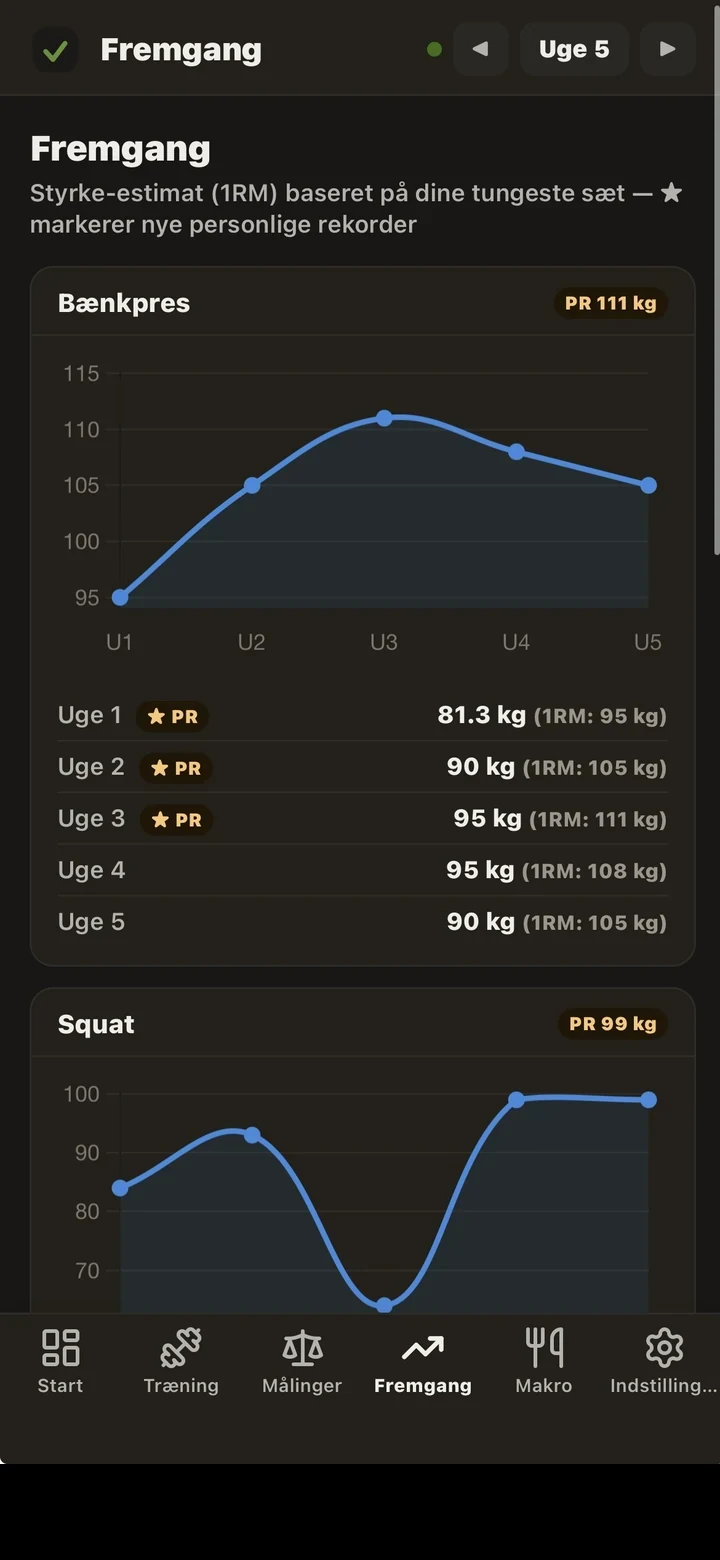
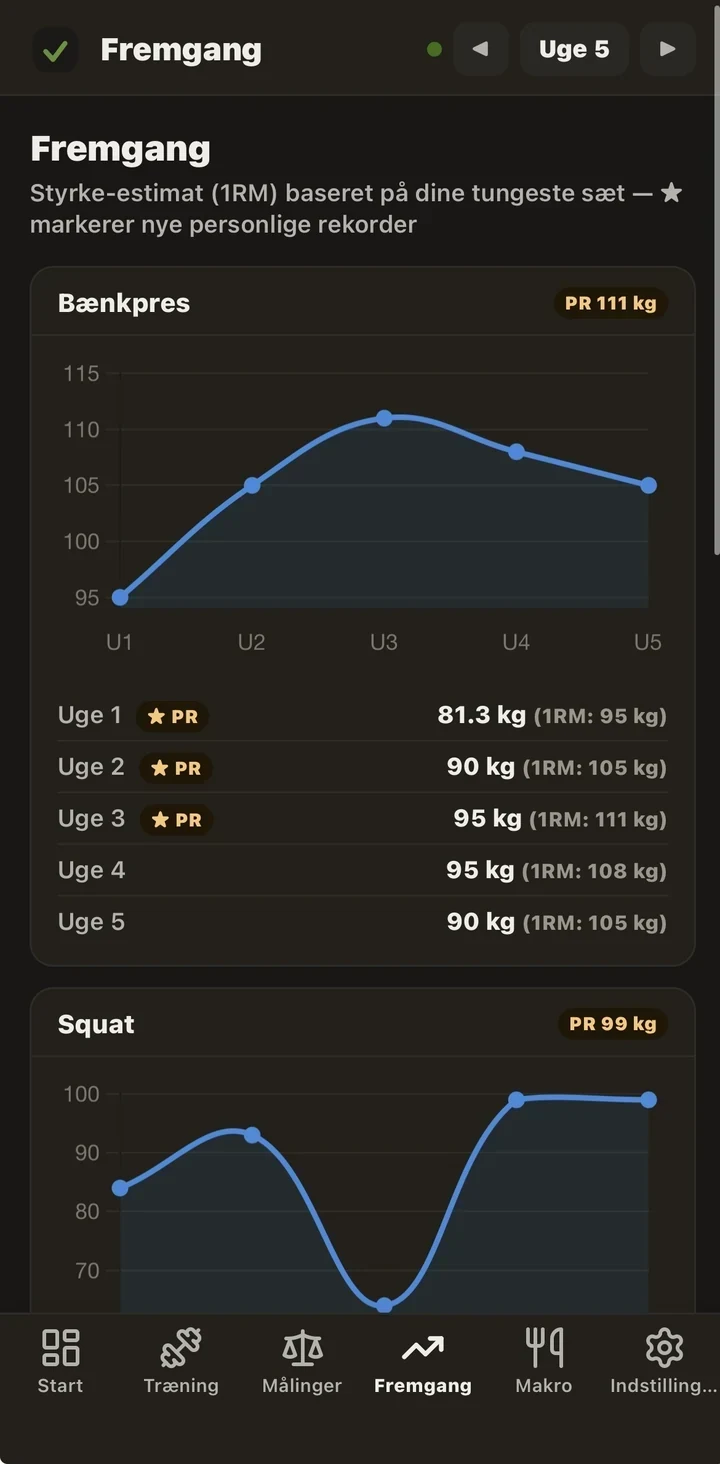
Add files via upload

diff --git a/index.html b/index.html
@@ -243,16 +243,16 @@ body{font-family:'Inter',-apple-system,'SF Pro Text','SF Pro Display',system-ui,
 .audience-desc{font-size:14px;color:var(--text);line-height:1.6;}
 
 /* Phone mockup (visual placeholder for app preview) */
-.phone-mock{background:#0c0c0e;border-radius:32px;padding:8px;aspect-ratio:9/19.5;width:100%;max-width:230px;margin:0 auto;box-shadow:0 24px 56px rgba(0,0,0,0.22),0 0 0 1px rgba(255,255,255,0.05) inset;position:relative;}
-.phone-mock img{display:block;width:100%;height:100%;object-fit:cover;object-position:top;border-radius:24px;}
+.phone-mock{background:#0c0c0e;border-radius:32px;padding:8px;width:100%;max-width:230px;margin:0 auto;box-shadow:0 24px 56px rgba(0,0,0,0.22),0 0 0 1px rgba(255,255,255,0.05) inset;position:relative;}
+.phone-mock img{display:block;width:100%;height:auto;border-radius:24px;}
 @media(prefers-color-scheme:dark){.phone-mock{box-shadow:0 24px 56px rgba(0,0,0,0.5),0 0 0 1px rgba(255,255,255,0.08) inset;}}
 
 /* Screenshot showcase under product-card */
-.screenshot-showcase{margin-top:32px;display:grid;grid-template-columns:repeat(3,1fr);gap:20px;}
+.screenshot-showcase{margin-top:32px;display:grid;grid-template-columns:repeat(3,1fr);gap:20px;align-items:end;}
 @media(max-width:640px){.screenshot-showcase{grid-template-columns:repeat(3,1fr);gap:12px;}}
 .shot-card{display:flex;flex-direction:column;align-items:center;text-align:center;gap:12px;}
-.shot-frame{background:#0c0c0e;border-radius:24px;padding:6px;aspect-ratio:9/19.5;width:100%;max-width:180px;box-shadow:0 14px 32px rgba(0,0,0,0.18),0 0 0 1px rgba(255,255,255,0.05) inset;}
-.shot-frame img{display:block;width:100%;height:100%;object-fit:cover;object-position:top;border-radius:18px;}
+.shot-frame{background:#0c0c0e;border-radius:24px;padding:6px;width:100%;max-width:180px;box-shadow:0 14px 32px rgba(0,0,0,0.18),0 0 0 1px rgba(255,255,255,0.05) inset;}
+.shot-frame img{display:block;width:100%;height:auto;border-radius:18px;}
 .shot-caption{font-size:13px;color:var(--text);font-weight:600;letter-spacing:-0.01em;line-height:1.35;}
 .shot-sub{font-size:12px;color:var(--muted);line-height:1.45;margin-top:-6px;}
 @media(prefers-color-scheme:dark){.shot-frame{box-shadow:0 14px 32px rgba(0,0,0,0.45),0 0 0 1px rgba(255,255,255,0.08) inset;}}
@@ -777,7 +777,7 @@ body{font-family:'Inter',-apple-system,'SF Pro Text','SF Pro Display',system-ui,
         </div>
       </div>
       <div class="phone-mock">
-        <img src="/assets/screenshots/start.webp" data-src-da="/assets/screenshots/start.webp" data-src-en="/assets/screenshots/start-en.webp" width="720" height="1560" fetchpriority="high" decoding="async" alt="Training log dashboard — today's focus, this week's training, macros and sleep on one screen">
+        <img src="/assets/screenshots/start.webp" data-src-da="/assets/screenshots/start.webp" data-src-en="/assets/screenshots/start-en.webp" width="720" height="1469" fetchpriority="high" decoding="async" alt="Training log dashboard — today's focus, this week's training, macros and sleep on one screen">
       </div>
     </div>
 
@@ -785,7 +785,7 @@ body{font-family:'Inter',-apple-system,'SF Pro Text','SF Pro Display',system-ui,
     <div class="screenshot-showcase">
       <div class="shot-card">
         <div class="shot-frame">
-          <img src="/assets/screenshots/fremgang-pr.webp" data-src-da="/assets/screenshots/fremgang-pr.webp" data-src-en="/assets/screenshots/fremgang-pr-en.webp" width="720" height="1560" loading="lazy" decoding="async" alt="">
+          <img src="/assets/screenshots/fremgang-pr.webp" data-src-da="/assets/screenshots/fremgang-pr.webp" data-src-en="/assets/screenshots/fremgang-pr-en.webp" width="720" height="1464" loading="lazy" decoding="async" alt="">
         </div>
         <div class="shot-caption">
           <span data-lang class="on" data-lang-id="da">Styrke-fremgang</span>
@@ -798,7 +798,7 @@ body{font-family:'Inter',-apple-system,'SF Pro Text','SF Pro Display',system-ui,
       </div>
       <div class="shot-card">
         <div class="shot-frame">
-          <img src="/assets/screenshots/maalinger-fedt.webp" data-src-da="/assets/screenshots/maalinger-fedt.webp" data-src-en="/assets/screenshots/maalinger-fedt-en.webp" width="720" height="1560" loading="lazy" decoding="async" alt="">
+          <img src="/assets/screenshots/maalinger-fedt.webp" data-src-da="/assets/screenshots/maalinger-fedt.webp" data-src-en="/assets/screenshots/maalinger-fedt-en.webp" width="720" height="1485" loading="lazy" decoding="async" alt="">
         </div>
         <div class="shot-caption">
           <span data-lang class="on" data-lang-id="da">Krops-fremgang</span>
@@ -811,7 +811,7 @@ body{font-family:'Inter',-apple-system,'SF Pro Text','SF Pro Display',system-ui,
       </div>
       <div class="shot-card">
         <div class="shot-frame">
-          <img src="/assets/screenshots/makrolog-uge.webp" data-src-da="/assets/screenshots/makrolog-uge.webp" data-src-en="/assets/screenshots/makrolog-uge-en.webp" width="720" height="1560" loading="lazy" decoding="async" alt="">
+          <img src="/assets/screenshots/makrolog-uge.webp" data-src-da="/assets/screenshots/makrolog-uge.webp" data-src-en="/assets/screenshots/makrolog-uge-en.webp" width="720" height="1336" loading="lazy" decoding="async" alt="">
         </div>
         <div class="shot-caption">
           <span data-lang class="on" data-lang-id="da">Kost-konsistens</span>
